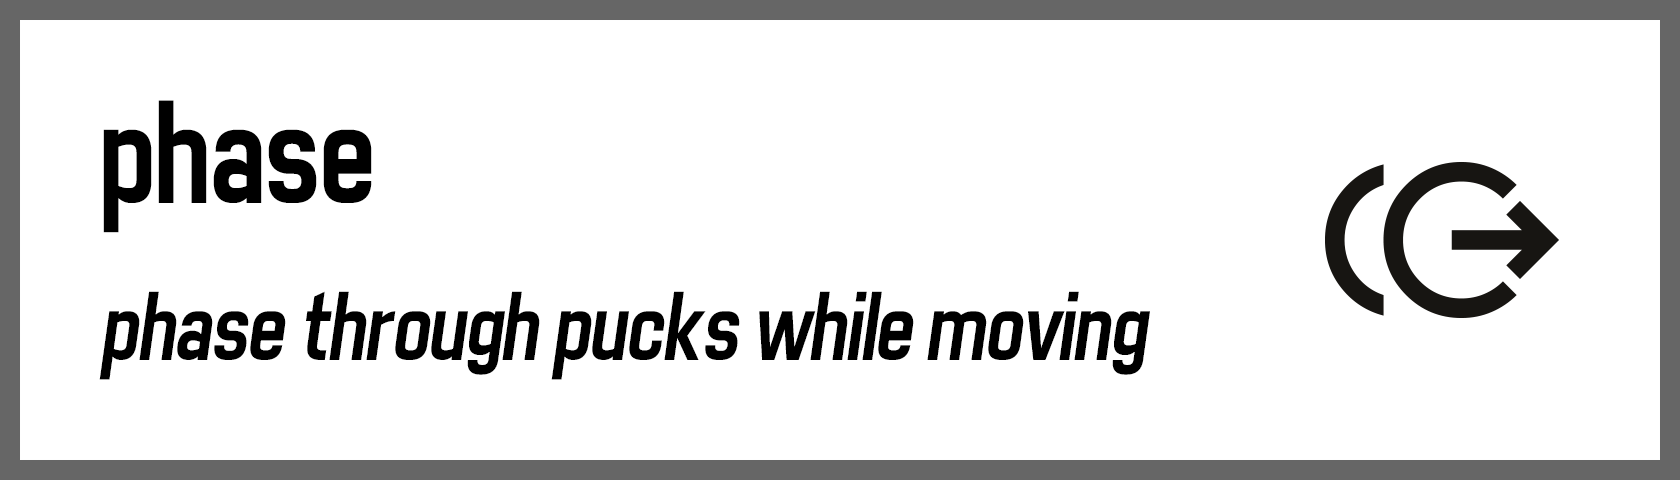
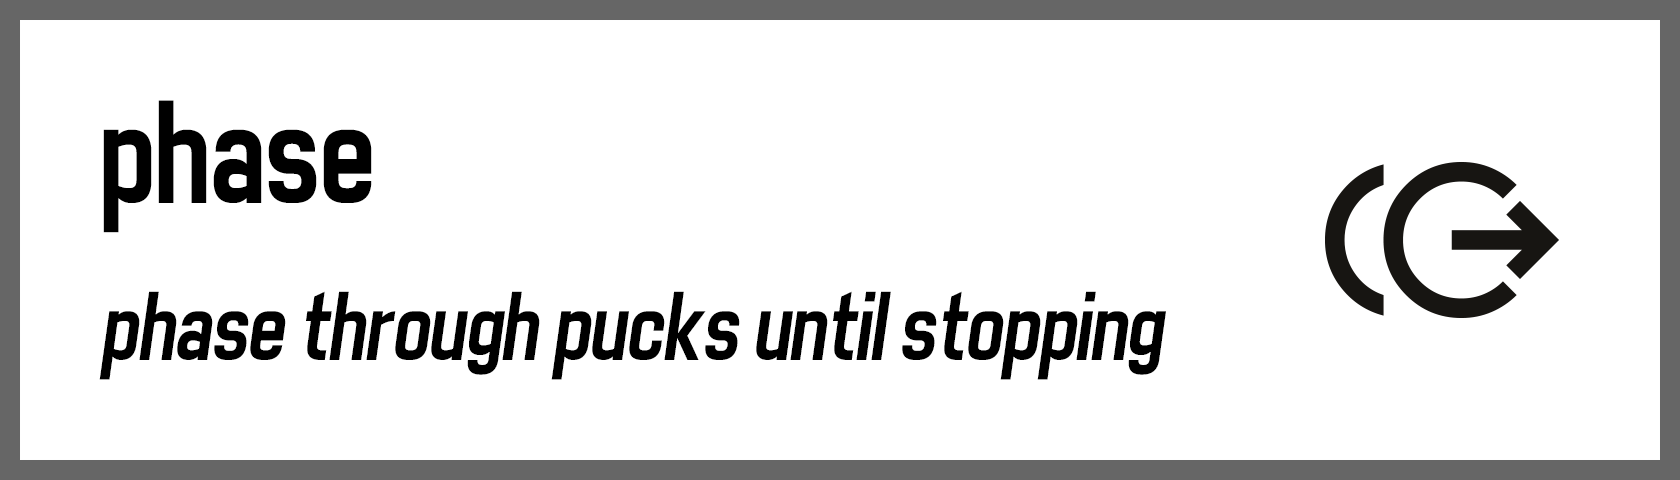
changed phase to not destroy itself if its postion is obstructed

Changed region(s): [[0.4333, 0.5938, 0.7119, 0.7812]]

diff --git a/Assets/Scripts/Puck/PuckScript.cs b/Assets/Scripts/Puck/PuckScript.cs
@@ -5,7 +5,6 @@
 using UnityEngine;
 using UnityEngine.EventSystems;
 using Unity.Netcode;
-using TMPro;
 using System;
 using System.Collections.Generic;
 
@@ -188,7 +187,7 @@ public class PuckScript : NetworkBehaviour, IPointerClickHandler
         {
             if (phasePowerup)
             {
-                // if this puck is within 2 units of the nearest puck, destroy it
+                // if this puck is within 2 units of the nearest puck, don't phase in
                 var phaseHasOverlap = false;
                 var pucks = GameObject.FindGameObjectsWithTag("puck");
                 foreach (var puck in pucks)
@@ -200,20 +199,35 @@ public class PuckScript : NetworkBehaviour, IPointerClickHandler
                         if (explosionPowerup > 0) // phase & explosion combo
                         {
                             puck.GetComponent<PuckScript>().DestroyPuck(Array.IndexOf(PowerupManager.Instance.methodArray, PowerupManager.Instance.ExplosionPowerup));
+                            Explode();
                         }
                     }
                 }
-                if (phaseHasOverlap)
+                if (!phaseHasOverlap)
                 {
-                    Explode();
-                    return;
+                    /// unphase it (make it visible again)
+                    spriteRenderer.color = new Color(1f, 1f, 1f, 1f);
+                    puckCollider.isTrigger = false;
+                    phasePowerup = false;
+                    RemoveAllPowerupText("phase");
+                    if (zoneMultiplier > 0)
+                    {
+                        if (IsPlayersPuck())
+                        {
+                            pointPlayerSFX.volume = SFXvolume;
+                            pointPlayerSFX.pitch = 0.9f + (0.05f * zoneMultiplier);
+                            pointPlayerSFX.Play();
+                        }
+                        else
+                        {
+                            pointCPUSFX.volume = SFXvolume;
+                            pointCPUSFX.pitch = 0.8f + (0.05f * zoneMultiplier);
+                            pointCPUSFX.Play();
+                        }
+                    }
+                    CreateScoreFloatingText();
+                    logic.UpdateScores();
                 }
-
-                // othewrise, unphase it (make it visible again)
-                spriteRenderer.color = new Color(1f, 1f, 1f, 1f);
-                puckCollider.isTrigger = false;
-                phasePowerup = false;
-                RemovePowerupText("phase");
             }
 
             if (lockPowerup > 0 && rb.bodyType == RigidbodyType2D.Dynamic)
@@ -370,9 +384,10 @@ public class PuckScript : NetworkBehaviour, IPointerClickHandler
     public bool IsSafe() { return safe; }
     public bool IsPastSafeLine() { return pastSafeLine; }
     public bool IsPlayersPuck() { return playersPuck; }
-    public int ComputeValue() { return (puckBaseValue * zoneMultiplier) + (zoneMultiplier > 0 ? puckBonusValue : 0); }
+    public int ComputeValue() { return phasePowerup ? 0 : (puckBaseValue * zoneMultiplier) + (zoneMultiplier > 0 ? puckBonusValue : 0); }
     public int ComputeTotalFutureValue()
     {
+        if (phasePowerup) return 0;
         if (zoneMultiplier <= 0 && transform.position.y > 9) return 0;
 
         // for future value, if the puck is able to be hit into a scoring zone (below y 9), treat it as minimum zone mult of 1
@@ -409,7 +424,7 @@ public class PuckScript : NetworkBehaviour, IPointerClickHandler
         if (isBoundry) { return; } // don't update score or play SFX for the safe line boundry. This is important for hydra / factory powerups.
 
         // if puck moves into higher scoring zone and gains a point play SFX
-        if (enteredZoneMultiplier > zoneMultiplier && (puckBaseValue + puckBonusValue) > 0)
+        if (enteredZoneMultiplier > zoneMultiplier && (puckBaseValue + puckBonusValue) > 0 && !phasePowerup)
         {
             if (IsPlayersPuck())
             {
@@ -425,7 +440,7 @@ public class PuckScript : NetworkBehaviour, IPointerClickHandler
             }
         }
         // if puck moves into the off zone, play minus sfx
-        else if (enteredZoneMultiplier < zoneMultiplier)
+        else if (enteredZoneMultiplier < zoneMultiplier && (puckBaseValue + puckBonusValue) > 0 && !phasePowerup)
         {
             if (IsPlayersPuck())
             {
@@ -632,6 +647,21 @@ public class PuckScript : NetworkBehaviour, IPointerClickHandler
     public void RemovePowerupText(string text)
     {
         powerupText.Remove(text);
+    }
+
+    public void RemoveAllPowerupText(string text = null)
+    {
+        if (text != null)
+        {
+            while (powerupText.Contains(text))
+            {
+                powerupText.Remove(text);
+            }
+        }
+        else
+        {
+            powerupText.Clear();
+        }
     }
 
     // text to show what powerup was used under the puck. Only fades, no up/shrink.
